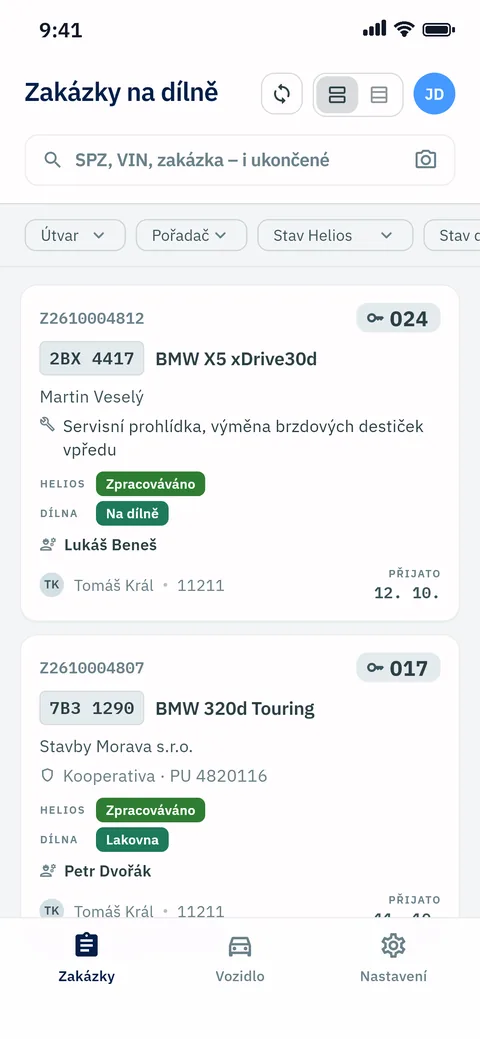
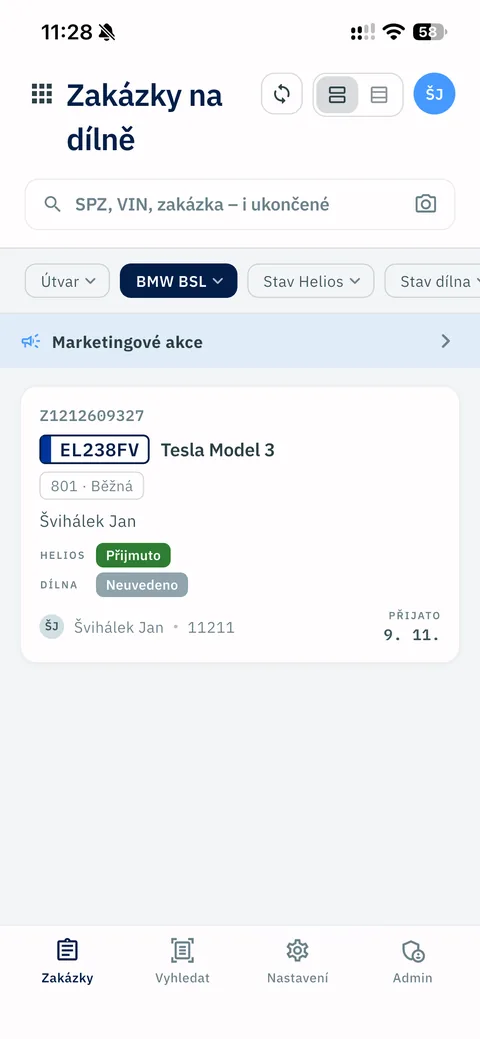
RenoWorkshop: nové screenshoty z aplikace včetně iPadu
- telefony a iPad se skutečnými daty autora, karta jiného zákazníka odstraněna
- panel projektu: iPad nahoře, pod ním dva telefony, na telefonu vodorovný pás

diff --git a/index.html b/index.html
@@ -125,6 +125,10 @@ h2{font-weight:700;font-size:clamp(2.5rem,5vw,3.75rem);line-height:1;letter-spac
 .shot img{width:47%;max-width:240px;height:auto;display:block;border-radius:clamp(10px,2.4vw,20px);box-shadow:0 10px 30px rgba(0,0,0,.45)}
 .shot img:first-child{transform:translateY(2%)}
 .shot img:last-child{transform:translateY(-2%)}
+.shot-3{display:grid;grid-template-columns:repeat(2,minmax(0,1fr));align-content:space-between;justify-items:center;gap:20px 4%;padding-bottom:0}
+.shot.shot-3 img{transform:none}
+.shot-3 .tab{grid-column:1/-1;grid-row:1;width:100%;max-width:560px;border-radius:clamp(8px,1.2vw,14px)}
+.shot-3 .ph{width:100%;max-width:260px;aspect-ratio:1/1.2;object-fit:cover;object-position:top;border-radius:clamp(10px,2.4vw,20px) clamp(10px,2.4vw,20px) 0 0}
 .tag{display:flex;align-items:center;gap:12px;margin-bottom:12px}
 .tag img{width:40px;height:40px;border-radius:9px;display:block}
 .tag span{font-family:var(--mono);font-size:var(--t-label);font-weight:600;letter-spacing:.14em;color:var(--accent);display:flex;align-items:center;gap:10px}
@@ -259,10 +263,11 @@ h1{font-size:clamp(2.5rem,12vw,3.5rem)}
 @media (max-width:32.5em){#theme,.hdr-r>.lang button[aria-pressed="true"]{display:none}.mtheme{display:flex}.hdr-in{gap:8px}.hdr-r{gap:6px}.hdr-r>.lang button{color:var(--ink-2)}
 .shot{margin-inline:-20px;border-radius:0;padding:24px 20px;gap:12px;justify-content:flex-start;overflow-x:auto;scroll-snap-type:x proximity;scroll-padding-inline:20px;scrollbar-width:none}.shot::-webkit-scrollbar{display:none}
 .shot:focus-visible{outline-offset:-3px;border-radius:0}
-.shot img{flex:none;width:62vw;max-width:260px;scroll-snap-align:start}.shot img:first-child,.shot img:last-child{transform:none}}
+.shot img{flex:none;width:62vw;max-width:260px;scroll-snap-align:start}.shot img:first-child,.shot img:last-child{transform:none}
+.shot-3{display:flex;align-items:center}.shot-3 .ph{flex:none;width:62vw;aspect-ratio:auto;border-radius:clamp(10px,2.4vw,20px)}.shot-3 .tab{flex:none;width:86vw;max-width:440px}}
 @media (max-width:24.25em){.logo{min-width:44px}.logo>span{position:absolute;width:1px;height:1px;margin:-1px;overflow:hidden;clip-path:inset(50%);white-space:nowrap}}
 @media (max-width:19.9em){.meta,.seg{grid-template-columns:minmax(0,1fr)}.meta{gap:0}.meta dd{margin-bottom:8px}}
-@media (max-height:30em){.hdr{position:static}html{scroll-padding-top:16px}.hero{padding:40px 0}.shot img{max-width:140px}}
+@media (max-height:30em){.hdr{position:static}html{scroll-padding-top:16px}.hero{padding:40px 0}.shot img,.shot-3 .ph{max-width:140px}.shot-3 .tab{max-width:320px}}
 @media print{
 :root,[data-theme]{--bg:#fff;--bg-2:#fff;--bg-3:#fff;--line:#d3d0c7;--line-2:#d3d0c7;--ink:#141417;--ink-2:#3d3d45;--ink-3:#585862;--ink-4:#6b6b75;--accent:#2a62d9;--ok:#157a2a;--warn:#8a5f00;--err:#c9252c;--header:#fff;color-scheme:light}
 .js .reveal{opacity:1;transform:none}
@@ -326,7 +331,7 @@ h1{font-size:44pt}
 <div class="sh reveal"><h2 data-t="pf_h">Vybrané projekty</h2><p class="sub" data-t="pf_sub">Dvě interní aplikace z&nbsp;posledního roku, obě pro dealera&nbsp;BMW a&nbsp;jeho zaměstnance.</p></div>
 <div class="cases">
 <article class="case reveal">
-<div class="shot" role="group" aria-label="Screenshoty aplikace" data-ta="aria-label|a_shots"><img src="images/renoworkshop_seznam-480.webp" srcset="images/renoworkshop_seznam-240.webp 240w,images/renoworkshop_seznam-480.webp 480w,images/renoworkshop_seznam-720.webp 720w" sizes="(max-width:32.5em) 62vw,260px" width="1170" height="2532" alt="RenoWorkshop – zakázky na dílně" data-ta="alt|a_rw1" loading="lazy" decoding="async"><img src="images/renoworkshop_detail-480.webp" srcset="images/renoworkshop_detail-240.webp 240w,images/renoworkshop_detail-480.webp 480w,images/renoworkshop_detail-720.webp 720w" sizes="(max-width:32.5em) 62vw,260px" width="1170" height="2532" alt="RenoWorkshop – detail zakázky s obálkou klíče" data-ta="alt|a_rw2" loading="lazy" decoding="async"></div>
+<div class="shot shot-3" role="group" aria-label="Screenshoty aplikace" data-ta="aria-label|a_shots"><img class="ph" src="images/renoworkshop_seznam-480.webp" srcset="images/renoworkshop_seznam-240.webp 240w,images/renoworkshop_seznam-480.webp 480w,images/renoworkshop_seznam-720.webp 720w" sizes="(max-width:32.5em) 62vw,260px" width="1170" height="2532" alt="RenoWorkshop – zakázky na dílně" data-ta="alt|a_rw1" loading="lazy" decoding="async"><img class="ph" src="images/renoworkshop_detail-480.webp" srcset="images/renoworkshop_detail-240.webp 240w,images/renoworkshop_detail-480.webp 480w,images/renoworkshop_detail-720.webp 720w" sizes="(max-width:32.5em) 62vw,260px" width="1170" height="2532" alt="RenoWorkshop – detail zakázky se závadami a&nbsp;úkony" data-ta="alt|a_rw2" loading="lazy" decoding="async"><img class="tab" src="images/renoworkshop_ipad-720.webp" srcset="images/renoworkshop_ipad-480.webp 480w,images/renoworkshop_ipad-720.webp 720w,images/renoworkshop_ipad-1200.webp 1200w" sizes="(max-width:32.5em) 86vw,560px" width="2360" height="1640" alt="RenoWorkshop na iPadu – detail zakázky s&nbsp;obálkou klíče a&nbsp;postupem práce" data-ta="alt|a_rw3" loading="lazy" decoding="async"></div>
 <div>
 <div class="tag"><img src="images/renoworkshop-app-icon-192.png" width="40" height="40" alt="" loading="lazy" decoding="async"><span>RENOWORKSHOP</span></div>
 <h3 data-t="rw_h">RenoWorkshop&nbsp;– dílenská aplikace pro servis BMW</h3>
@@ -421,7 +426,7 @@ h1{font-size:44pt}
 (function(){
 var root=document.documentElement,hdr=document.getElementById('hdr'),lang='cs';
 function t(cs,en){return lang==='en'?en:cs;}
-var EN={"a_lang":"Language","nav_svc":"services","nav_con":"contact","hdr_status":"open to offers","hdr_cta":"contact me","skip":"skip to content","lead":"I build apps end to end: interface design, backend, integrations with company systems and deployment.","ch_ui":"UI design","ch_dep":"deployment","ch_note":"RenoWorkshop, built end to end as the sole developer","hire":"Looking for a full-time developer role in Brno or remote.","cta_job":"talk about a role","cta_prj":"ask about a project","pf_h":"Selected projects","pf_sub":"Two internal apps from the past year, both for a BMW dealer and its staff.","rw_h":"RenoWorkshop&nbsp;– workshop app for BMW service","rw_solve":"The app digitised vehicle check-in, from photos and checklists to the handover from the service desk to the workshop.","rw_p":"A technician scans the licence plate or VIN and the app finds the repair order in data synced from the Helios&nbsp;Nephrite ERP. It also handles repair progress, job cards, key envelopes with QR labels and a PDF repair order report. It replaces the paper job folder.","dt_part":"my role:","dt_plat":"platform:","dt_rel":"distribution:","dt_st":"status:","rw_part":"sole developer: UI design → Flutter → API → Helios → MDM","rw_rel":"managed devices via MDM, not in app stores","rw_f1":"on-device recognition of licence plates, VINs and QR codes (ML&nbsp;Kit)","rw_f2":"integration with the Helios&nbsp;Nephrite ERP through a separate database synced every 5&nbsp;minutes and a custom API","re_h":"RenoEnergy&nbsp;– EV charging and meter reading records","re_solve":"RenoEnergy replaced handwritten meter readings.","re_p":"Staff photograph the meter before and after charging on company chargers, and the app calculates kWh consumption and an estimated price for invoicing, with monthly summaries for each employee. It also supports technicians on meter-reading rounds for electricity, gas and other meters across the premises, with meters identified by QR code.","re_part":"sole developer: UI design → Flutter → backend → deployment","re_rel":"for employees, not in app stores","st_prod":"in production","sk_exp":"As part of in-house IT, I build internal apps and look after the network and ERP they connect to.","sk_li":"full experience on LinkedIn<span class=\"sr\"> (opens in a new tab)</span>","k_int":"integrations","k_inf":"infrastructure","k_pra":"practices","k_lang":"spoken languages","c_tests":"tests","c_en":"English B2","c_es":"Spanish A2","sv_h":"Custom projects","sv_sub":"For companies that need their own app. One shared codebase for iPhone and Android makes development faster and cheaper.","sv1_h":"App development","sv1":"Flutter apps for iOS and Android from architecture to release. A new app in 6–12&nbsp;weeks.","sv2_h":"Consulting","sv2":"Architecture, stack selection, code audits and reviews. Hourly rate or a package of days.","sv3":"Interface design and prototypes, implemented directly in Flutter.","sv4_h":"Maintenance","sv4":"Updates, fixes and small features, including apps built elsewhere.","ct_h":"Get in touch","ct_sub":"I’m open to job offers and new projects.","ct_dir":"DIRECT CONTACT","ct_tel":"PHONE","ct_copy":"copy","ct_way":"WORK PREFERENCES","ct_want":"I prefer a full-time role, in Brno or remote. Other options:","c_part":"part-time","c_ico":"freelance contract","c_prj":"custom projects","f_h":"Send me a message","f_job":"Job offer","f_prj":"I have a project","f_hint":"All fields are required.","f_name":"NAME","f_name_e":"enter your name","f_mail_e":"enter a valid email","f_msg":"MESSAGE","f_msg_e":"write a few words","f_or":" or write directly to ","f_send":"send message","f_small":"reply within 1&nbsp;business day","ft_top":"back to top ↑","a_nav":"Main navigation","a_mnav":"Mobile navigation","a_seg":"Message type","a_cm":"copy email","a_ct":"copy phone","a_rw1":"RenoWorkshop – workshop orders","a_rw2":"RenoWorkshop – order detail with key envelope","a_re1":"RenoEnergy – charging overview","a_re2":"RenoEnergy – metering points","p_name":"Jane Smith","p_mail":"jane@company.com","l_mail":"EMAIL","hire_note":"Over <span class=\"exp-yrs\" id=\"exp-yrs\" data-from=\"2022-09-01\">4&nbsp;years</span> in in-house IT, including app development&nbsp;· <a href=\"https://www.linkedin.com/in/jan-%C5%A1vih%C3%A1lek-526627170/\" target=\"_blank\" rel=\"noopener noreferrer\">LinkedIn<span class=\"sr\"> (opens in a new tab)</span></a>","rw_f7":"sign-in with company Microsoft&nbsp;365 accounts","ct_li":"/in/jan-švihálek<span class=\"sr\"> (opens in a new tab)</span>","rw_build":"HOW IT’S BUILT","a_shots":"App screenshots"};
+var EN={"a_lang":"Language","nav_svc":"services","nav_con":"contact","hdr_status":"open to offers","hdr_cta":"contact me","skip":"skip to content","lead":"I build apps end to end: interface design, backend, integrations with company systems and deployment.","ch_ui":"UI design","ch_dep":"deployment","ch_note":"RenoWorkshop, built end to end as the sole developer","hire":"Looking for a full-time developer role in Brno or remote.","cta_job":"talk about a role","cta_prj":"ask about a project","pf_h":"Selected projects","pf_sub":"Two internal apps from the past year, both for a BMW dealer and its staff.","rw_h":"RenoWorkshop&nbsp;– workshop app for BMW service","rw_solve":"The app digitised vehicle check-in, from photos and checklists to the handover from the service desk to the workshop.","rw_p":"A technician scans the licence plate or VIN and the app finds the repair order in data synced from the Helios&nbsp;Nephrite ERP. It also handles repair progress, job cards, key envelopes with QR labels and a PDF repair order report. It replaces the paper job folder.","dt_part":"my role:","dt_plat":"platform:","dt_rel":"distribution:","dt_st":"status:","rw_part":"sole developer: UI design → Flutter → API → Helios → MDM","rw_rel":"managed devices via MDM, not in app stores","rw_f1":"on-device recognition of licence plates, VINs and QR codes (ML&nbsp;Kit)","rw_f2":"integration with the Helios&nbsp;Nephrite ERP through a separate database synced every 5&nbsp;minutes and a custom API","re_h":"RenoEnergy&nbsp;– EV charging and meter reading records","re_solve":"RenoEnergy replaced handwritten meter readings.","re_p":"Staff photograph the meter before and after charging on company chargers, and the app calculates kWh consumption and an estimated price for invoicing, with monthly summaries for each employee. It also supports technicians on meter-reading rounds for electricity, gas and other meters across the premises, with meters identified by QR code.","re_part":"sole developer: UI design → Flutter → backend → deployment","re_rel":"for employees, not in app stores","st_prod":"in production","sk_exp":"As part of in-house IT, I build internal apps and look after the network and ERP they connect to.","sk_li":"full experience on LinkedIn<span class=\"sr\"> (opens in a new tab)</span>","k_int":"integrations","k_inf":"infrastructure","k_pra":"practices","k_lang":"spoken languages","c_tests":"tests","c_en":"English B2","c_es":"Spanish A2","sv_h":"Custom projects","sv_sub":"For companies that need their own app. One shared codebase for iPhone and Android makes development faster and cheaper.","sv1_h":"App development","sv1":"Flutter apps for iOS and Android from architecture to release. A new app in 6–12&nbsp;weeks.","sv2_h":"Consulting","sv2":"Architecture, stack selection, code audits and reviews. Hourly rate or a package of days.","sv3":"Interface design and prototypes, implemented directly in Flutter.","sv4_h":"Maintenance","sv4":"Updates, fixes and small features, including apps built elsewhere.","ct_h":"Get in touch","ct_sub":"I’m open to job offers and new projects.","ct_dir":"DIRECT CONTACT","ct_tel":"PHONE","ct_copy":"copy","ct_way":"WORK PREFERENCES","ct_want":"I prefer a full-time role, in Brno or remote. Other options:","c_part":"part-time","c_ico":"freelance contract","c_prj":"custom projects","f_h":"Send me a message","f_job":"Job offer","f_prj":"I have a project","f_hint":"All fields are required.","f_name":"NAME","f_name_e":"enter your name","f_mail_e":"enter a valid email","f_msg":"MESSAGE","f_msg_e":"write a few words","f_or":" or write directly to ","f_send":"send message","f_small":"reply within 1&nbsp;business day","ft_top":"back to top ↑","a_nav":"Main navigation","a_mnav":"Mobile navigation","a_seg":"Message type","a_cm":"copy email","a_ct":"copy phone","a_rw1":"RenoWorkshop – workshop orders","a_rw2":"RenoWorkshop – order detail with faults and jobs","a_re1":"RenoEnergy – charging overview","a_re2":"RenoEnergy – metering points","p_name":"Jane Smith","p_mail":"jane@company.com","l_mail":"EMAIL","hire_note":"Over <span class=\"exp-yrs\" id=\"exp-yrs\" data-from=\"2022-09-01\">4&nbsp;years</span> in in-house IT, including app development&nbsp;· <a href=\"https://www.linkedin.com/in/jan-%C5%A1vih%C3%A1lek-526627170/\" target=\"_blank\" rel=\"noopener noreferrer\">LinkedIn<span class=\"sr\"> (opens in a new tab)</span></a>","rw_f7":"sign-in with company Microsoft&nbsp;365 accounts","ct_li":"/in/jan-švihálek<span class=\"sr\"> (opens in a new tab)</span>","rw_build":"HOW IT’S BUILT","a_shots":"App screenshots","a_rw3":"RenoWorkshop on iPad – order detail with key envelope and job progress"};
 
 root.classList.add('js');
 var rv=document.querySelectorAll('.reveal');

diff --git a/PRODUCT.md b/PRODUCT.md
@@ -56,7 +56,7 @@ Jeden člověk od A do Z. Jan zvládne návrh UI, backend, integrace i vydání 
 
 RenoWorkshop i RenoEnergy vznikly v zaměstnání, ne jako freelance zakázky. Jan je u obou udělal sám, od návrhu UI přes Flutter a backend po nasazení.
 
-- **RenoWorkshop:** interní dílenská aplikace pro servis dealera BMW, napojená na ERP Helios Nephrite: potřebná data jsou v samostatné databázi, která se s Heliosem synchronizuje každých 5 minut, a aplikace s ní komunikuje přes API. Uživatelé se přihlašují účty v tenantu M365. Stav: pilot. Distribuce přes MDM, není v obchodech. Screenshoty: `images/renoworkshop_seznam.png`, `images/renoworkshop_detail.png`. Ikona: `images/renoworkshop-app-icon-192.png`.
+- **RenoWorkshop:** interní dílenská aplikace pro servis dealera BMW, napojená na ERP Helios Nephrite: potřebná data jsou v samostatné databázi, která se s Heliosem synchronizuje každých 5 minut, a aplikace s ní komunikuje přes API. Uživatelé se přihlašují účty v tenantu M365. Stav: pilot. Distribuce přes MDM, není v obchodech. Screenshoty: `images/renoworkshop_seznam.png`, `images/renoworkshop_detail.png`, iPad `images/renoworkshop_ipad-*.webp`. Ikona: `images/renoworkshop-app-icon-192.png`.
 - **RenoEnergy:** interní aplikace pro evidenci nabíjení elektromobilů a odečty měřidel. Backend Firebase, databáze Firestore. Stav: v produkci. Není v obchodech. Screenshoty: `images/renoenergy_nabijeni_light.png`, `images/renoenergy_mista.png`.
 
 **Praxe a dovednosti**
@@ -80,7 +80,7 @@ Reference, doporučení, metriky a čísla o dopadu, loga klientů a začátek p
 
 - **Jméno klienta:** u RenoWorkshopu a RenoEnergy se klient uvádí jen jako „dealer BMW“. Web nesmí napsat, že aplikace vznikly pro Renocar. Renocar zůstává v praxi jako zaměstnavatel a Jan přijímá, že si čtenář vazbu může domyslet.
 - **Torkis a QRkni:** do portfolia se nevracejí. Jejich obrázky jsou z projektu smazané.
-- **Screenshoty se skutečnými osobními údaji:** žádný obrázek na webu nesmí ukazovat skutečný IBAN, telefon, e-mail, SPZ, VIN ani údaje zákazníků. Nové screenshoty musí používat vymyšlená data. Současné screenshoty jsou v pořádku: RenoEnergy ukazuje Janovo vlastní vozidlo a údaje, které schválil ke zveřejnění, a RenoWorkshop vymyšlená data.
+- **Screenshoty se skutečnými osobními údaji:** žádný obrázek na webu nesmí ukazovat skutečný IBAN, telefon, e-mail, SPZ, VIN ani údaje zákazníků. Nové screenshoty musí používat vymyšlená data. Současné screenshoty jsou v pořádku: RenoEnergy i RenoWorkshop ukazují Janovo vlastní vozidlo a údaje, které schválil ke zveřejnění. Ze seznamu zakázek RenoWorkshopu je odstraněná karta jiného zákazníka.
 
 ## Product Principles
 
